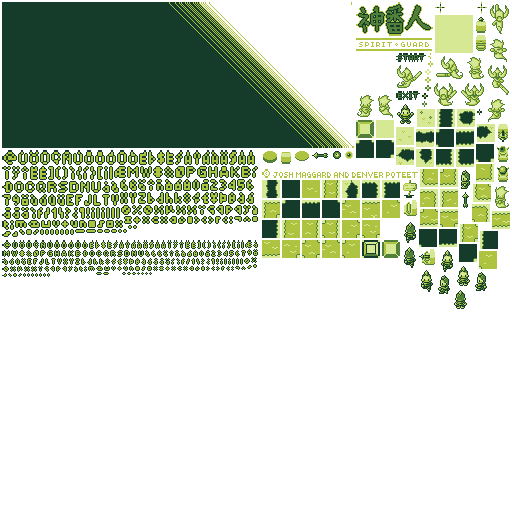
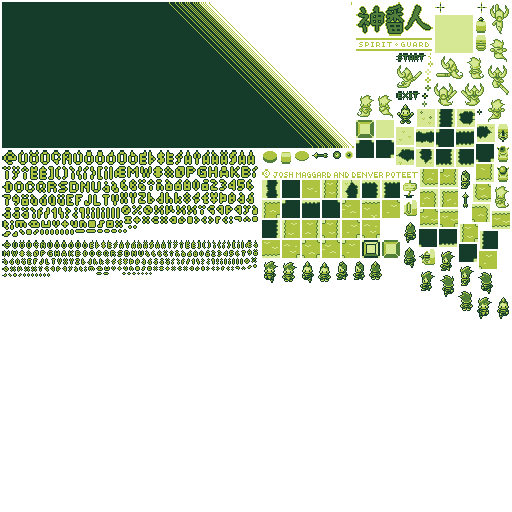
put in basic enemy class

Changed region(s): [[0.8125, 0.5, 1.0, 0.625], [0.5, 0.5, 0.75, 0.5625]]

diff --git a/Assets/Resources/Scripts/GameObjects/Player.cs b/Assets/Resources/Scripts/GameObjects/Player.cs
@@ -74,7 +74,7 @@ public class Player : FutileFourDirectionBaseObject
         player.addAnimation(new FAnimation(PlayerState.SWORD_TWO.ToString() + Direction.DOWN.ToString(), new int[] { 20, 21 }, attackSpeed, false));
 
 
-        player.play(State.ToString());
+        PlayAnim(true);
         this.AddChild(player);
     }
 
@@ -107,10 +107,10 @@ public class Player : FutileFourDirectionBaseObject
                     float newY = this.y;
                     switch (_direction)
                     {
-                        case Direction.UP: newY += maxJumpDist; while (newY > this.y && (!world.isPassable(this.x + hitBox.x, newY + hitBox.y + hitBox.height / 2f) || !world.isPassable(this.x + hitBox.x, newY + hitBox.y - hitBox.height / 2f) || world.CheckObjectCollision(this.x + hitBox.x, newY + hitBox.y + hitBox.height / 2f) != null || world.CheckObjectCollision(this.x + hitBox.x, newY + hitBox.y - hitBox.height / 2f) != null)) { newY -= 1f; } break;
-                        case Direction.RIGHT: newX += maxJumpDist; while (newX > this.x && (!world.isPassable(newX + hitBox.x + hitBox.width / 2f, this.y + hitBox.y) || !world.isPassable(newX + hitBox.x - hitBox.width / 2f, this.y + hitBox.y) || world.CheckObjectCollision(newX + hitBox.x + hitBox.width / 2f, this.y + hitBox.y) != null || world.CheckObjectCollision(newX + hitBox.x - hitBox.width / 2f, this.y + hitBox.y) != null)) { newX -= 1f; } break;
-                        case Direction.DOWN: newY -= maxJumpDist; while (newY < this.y && (!world.isPassable(this.x + hitBox.x, newY + hitBox.y + hitBox.height / 2f) || !world.isPassable(this.x + hitBox.x, newY + hitBox.y - hitBox.height / 2f) || world.CheckObjectCollision(this.x + hitBox.x, newY + hitBox.y - hitBox.height / 2f) != null || world.CheckObjectCollision(this.x + hitBox.x, newY + hitBox.y + hitBox.height / 2f) != null)) { newY += 1f; } break;
-                        case Direction.LEFT: newX -= maxJumpDist; while (newX < this.x && (!world.isPassable(newX + hitBox.x + hitBox.width / 2f, this.y + hitBox.y) || !world.isPassable(newX + hitBox.x - hitBox.width / 2f, this.y + hitBox.y) || world.CheckObjectCollision(newX + hitBox.x - hitBox.width / 2f, this.y + hitBox.y) != null || world.CheckObjectCollision(newX + hitBox.x + hitBox.width / 2f, this.y + hitBox.y) != null)) { newX += 1f; } break;
+                        case Direction.UP: newY += maxJumpDist; while (newY > this.y && (!world.isPassable(this.x + hitBox.x, newY + hitBox.y + hitBox.height / 2f) || !world.isPassable(this.x + hitBox.x, newY + hitBox.y - hitBox.height / 2f) || world.CheckObjectCollision(this, this.x + hitBox.x, newY + hitBox.y + hitBox.height / 2f) != null || world.CheckObjectCollision(this, this.x + hitBox.x, newY + hitBox.y - hitBox.height / 2f) != null)) { newY -= 1f; } break;
+                        case Direction.RIGHT: newX += maxJumpDist; while (newX > this.x && (!world.isPassable(newX + hitBox.x + hitBox.width / 2f, this.y + hitBox.y) || !world.isPassable(newX + hitBox.x - hitBox.width / 2f, this.y + hitBox.y) || world.CheckObjectCollision(this, newX + hitBox.x + hitBox.width / 2f, this.y + hitBox.y) != null || world.CheckObjectCollision(this, newX + hitBox.x - hitBox.width / 2f, this.y + hitBox.y) != null)) { newX -= 1f; } break;
+                        case Direction.DOWN: newY -= maxJumpDist; while (newY < this.y && (!world.isPassable(this.x + hitBox.x, newY + hitBox.y + hitBox.height / 2f) || !world.isPassable(this.x + hitBox.x, newY + hitBox.y - hitBox.height / 2f) || world.CheckObjectCollision(this, this.x + hitBox.x, newY + hitBox.y - hitBox.height / 2f) != null || world.CheckObjectCollision(this, this.x + hitBox.x, newY + hitBox.y + hitBox.height / 2f) != null)) { newY += 1f; } break;
+                        case Direction.LEFT: newX -= maxJumpDist; while (newX < this.x && (!world.isPassable(newX + hitBox.x + hitBox.width / 2f, this.y + hitBox.y) || !world.isPassable(newX + hitBox.x - hitBox.width / 2f, this.y + hitBox.y) || world.CheckObjectCollision(this, newX + hitBox.x - hitBox.width / 2f, this.y + hitBox.y) != null || world.CheckObjectCollision(this, newX + hitBox.x + hitBox.width / 2f, this.y + hitBox.y) != null)) { newX += 1f; } break;
                     }
                     xVel = 0;
                     yVel = 0;
@@ -157,10 +157,10 @@ public class Player : FutileFourDirectionBaseObject
                     float newY = this.y;
                     switch (_direction)
                     {
-                        case Direction.UP: newY += attackDist; while (newY > this.y && (!world.isPassable(this.x + hitBox.x, newY + hitBox.y + hitBox.height / 2f) || !world.isPassable(this.x + hitBox.x, newY + hitBox.y - hitBox.height / 2f) || world.CheckObjectCollision(this.x + hitBox.x, newY + hitBox.y + hitBox.height / 2f) != null || world.CheckObjectCollision(this.x + hitBox.x, newY + hitBox.y - hitBox.height / 2f) != null)) { newY -= 1f; } break;
-                        case Direction.RIGHT: newX += attackDist; while (newX > this.x && (!world.isPassable(newX + hitBox.x + hitBox.width / 2f, this.y + hitBox.y) || !world.isPassable(newX + hitBox.x - hitBox.width / 2f, this.y + hitBox.y) || world.CheckObjectCollision(newX + hitBox.x + hitBox.width / 2f, this.y + hitBox.y) != null || world.CheckObjectCollision(newX + hitBox.x - hitBox.width / 2f, this.y + hitBox.y) != null)) { newX -= 1f; } break;
-                        case Direction.DOWN: newY -= attackDist; while (newY < this.y && (!world.isPassable(this.x + hitBox.x, newY + hitBox.y + hitBox.height / 2f) || !world.isPassable(this.x + hitBox.x, newY + hitBox.y - hitBox.height / 2f) || world.CheckObjectCollision(this.x + hitBox.x, newY + hitBox.y - hitBox.height / 2f) != null || world.CheckObjectCollision(this.x + hitBox.x, newY + hitBox.y + hitBox.height / 2f) != null)) { newY += 1f; } break;
-                        case Direction.LEFT: newX -= attackDist; while (newX < this.x && (!world.isPassable(newX + hitBox.x + hitBox.width / 2f, this.y + hitBox.y) || !world.isPassable(newX + hitBox.x - hitBox.width / 2f, this.y + hitBox.y) || world.CheckObjectCollision(newX + hitBox.x - hitBox.width / 2f, this.y + hitBox.y) != null || world.CheckObjectCollision(newX + hitBox.x + hitBox.width / 2f, this.y + hitBox.y) != null)) { newX += 1f; } break;
+                        case Direction.UP: newY += attackDist; while (newY > this.y && (!world.isPassable(this.x + hitBox.x, newY + hitBox.y + hitBox.height / 2f) || !world.isPassable(this.x + hitBox.x, newY + hitBox.y - hitBox.height / 2f) || world.CheckObjectCollision(this, this.x + hitBox.x, newY + hitBox.y + hitBox.height / 2f) != null || world.CheckObjectCollision(this, this.x + hitBox.x, newY + hitBox.y - hitBox.height / 2f) != null)) { newY -= 1f; } break;
+                        case Direction.RIGHT: newX += attackDist; while (newX > this.x && (!world.isPassable(newX + hitBox.x + hitBox.width / 2f, this.y + hitBox.y) || !world.isPassable(newX + hitBox.x - hitBox.width / 2f, this.y + hitBox.y) || world.CheckObjectCollision(this, newX + hitBox.x + hitBox.width / 2f, this.y + hitBox.y) != null || world.CheckObjectCollision(this, newX + hitBox.x - hitBox.width / 2f, this.y + hitBox.y) != null)) { newX -= 1f; } break;
+                        case Direction.DOWN: newY -= attackDist; while (newY < this.y && (!world.isPassable(this.x + hitBox.x, newY + hitBox.y + hitBox.height / 2f) || !world.isPassable(this.x + hitBox.x, newY + hitBox.y - hitBox.height / 2f) || world.CheckObjectCollision(this, this.x + hitBox.x, newY + hitBox.y - hitBox.height / 2f) != null || world.CheckObjectCollision(this, this.x + hitBox.x, newY + hitBox.y + hitBox.height / 2f) != null)) { newY += 1f; } break;
+                        case Direction.LEFT: newX -= attackDist; while (newX < this.x && (!world.isPassable(newX + hitBox.x + hitBox.width / 2f, this.y + hitBox.y) || !world.isPassable(newX + hitBox.x - hitBox.width / 2f, this.y + hitBox.y) || world.CheckObjectCollision(this, newX + hitBox.x - hitBox.width / 2f, this.y + hitBox.y) != null || world.CheckObjectCollision(this, newX + hitBox.x + hitBox.width / 2f, this.y + hitBox.y) != null)) { newX += 1f; } break;
                     }
                     xVel = 0;
                     yVel = 0;
@@ -248,10 +248,10 @@ public class Player : FutileFourDirectionBaseObject
                         PlayAnim(true);
                         switch (_direction)
                         {
-                            case Direction.UP: newY += attack2Dist; while (newY > this.y && (!world.isPassable(this.x + hitBox.x, newY + hitBox.y + hitBox.height / 2f) || !world.isPassable(this.x + hitBox.x, newY + hitBox.y - hitBox.height / 2f) || world.CheckObjectCollision(this.x + hitBox.x, newY + hitBox.y + hitBox.height / 2f) != null || world.CheckObjectCollision(this.x + hitBox.x, newY + hitBox.y - hitBox.height / 2f) != null)) { newY -= 1f; } break;
-                            case Direction.RIGHT: newX += attack2Dist; while (newX > this.x && (!world.isPassable(newX + hitBox.x + hitBox.width / 2f, this.y + hitBox.y) || !world.isPassable(newX + hitBox.x - hitBox.width / 2f, this.y + hitBox.y) || world.CheckObjectCollision(newX + hitBox.x + hitBox.width / 2f, this.y + hitBox.y) != null || world.CheckObjectCollision(newX + hitBox.x - hitBox.width / 2f, this.y + hitBox.y) != null)) { newX -= 1f; } break;
-                            case Direction.DOWN: newY -= attack2Dist; while (newY < this.y && (!world.isPassable(this.x + hitBox.x, newY + hitBox.y + hitBox.height / 2f) || !world.isPassable(this.x + hitBox.x, newY + hitBox.y - hitBox.height / 2f) || world.CheckObjectCollision(this.x + hitBox.x, newY + hitBox.y - hitBox.height / 2f) != null || world.CheckObjectCollision(this.x + hitBox.x, newY + hitBox.y + hitBox.height / 2f) != null)) { newY += 1f; } break;
-                            case Direction.LEFT: newX -= attack2Dist; while (newX < this.x && (!world.isPassable(newX + hitBox.x + hitBox.width / 2f, this.y + hitBox.y) || !world.isPassable(newX + hitBox.x - hitBox.width / 2f, this.y + hitBox.y) || world.CheckObjectCollision(newX + hitBox.x - hitBox.width / 2f, this.y + hitBox.y) != null || world.CheckObjectCollision(newX + hitBox.x + hitBox.width / 2f, this.y + hitBox.y) != null)) { newX += 1f; } break;
+                            case Direction.UP: newY += attack2Dist; while (newY > this.y && (!world.isPassable(this.x + hitBox.x, newY + hitBox.y + hitBox.height / 2f) || !world.isPassable(this.x + hitBox.x, newY + hitBox.y - hitBox.height / 2f) || world.CheckObjectCollision(this, this.x + hitBox.x, newY + hitBox.y + hitBox.height / 2f) != null || world.CheckObjectCollision(this, this.x + hitBox.x, newY + hitBox.y - hitBox.height / 2f) != null)) { newY -= 1f; } break;
+                            case Direction.RIGHT: newX += attack2Dist; while (newX > this.x && (!world.isPassable(newX + hitBox.x + hitBox.width / 2f, this.y + hitBox.y) || !world.isPassable(newX + hitBox.x - hitBox.width / 2f, this.y + hitBox.y) || world.CheckObjectCollision(this, newX + hitBox.x + hitBox.width / 2f, this.y + hitBox.y) != null || world.CheckObjectCollision(this, newX + hitBox.x - hitBox.width / 2f, this.y + hitBox.y) != null)) { newX -= 1f; } break;
+                            case Direction.DOWN: newY -= attack2Dist; while (newY < this.y && (!world.isPassable(this.x + hitBox.x, newY + hitBox.y + hitBox.height / 2f) || !world.isPassable(this.x + hitBox.x, newY + hitBox.y - hitBox.height / 2f) || world.CheckObjectCollision(this, this.x + hitBox.x, newY + hitBox.y - hitBox.height / 2f) != null || world.CheckObjectCollision(this, this.x + hitBox.x, newY + hitBox.y + hitBox.height / 2f) != null)) { newY += 1f; } break;
+                            case Direction.LEFT: newX -= attack2Dist; while (newX < this.x && (!world.isPassable(newX + hitBox.x + hitBox.width / 2f, this.y + hitBox.y) || !world.isPassable(newX + hitBox.x - hitBox.width / 2f, this.y + hitBox.y) || world.CheckObjectCollision(this, newX + hitBox.x - hitBox.width / 2f, this.y + hitBox.y) != null || world.CheckObjectCollision(this, newX + hitBox.x + hitBox.width / 2f, this.y + hitBox.y) != null)) { newX += 1f; } break;
                         }
                         xVel = 0;
                         yVel = 0;

diff --git a/Assets/Resources/Scripts/GameObjects/Enemy.cs b/Assets/Resources/Scripts/GameObjects/Enemy.cs
@@ -1,0 +1,133 @@
+using System;
+using System.Collections.Generic;
+using System.Linq;
+using System.Text;
+
+public class Enemy : FutileFourDirectionBaseObject
+{
+    private FAnimatedSprite sprite;
+    private float moveSpeed = .5f;
+    private EnemyState _state = EnemyState.IDLE;
+    public EnemyState State
+    {
+        get
+        {
+            return _state;
+        }
+        set
+        {
+            if (_state != value)
+            {
+                _state = value;
+                stateCount = 0;
+            }
+        }
+    }
+    public enum EnemyState
+    {
+        IDLE,
+        MOVING
+    }
+    public Enemy(World world)
+        : base(new RXRect(0, -6, 10, 8), world)
+    {
+        maxXVel = .5f;
+        maxYVel = .5f;
+        minYVel = -.5f;
+        handleStateCount = true;
+        bounceiness = 0f;
+        clearAcc = false;
+
+        sprite = new FAnimatedSprite("villagerA");
+        sprite.addAnimation(new FAnimation(EnemyState.MOVING.ToString() + Direction.DOWN, new int[] { 1, 2, 3, 4 }, 150, true));
+        sprite.addAnimation(new FAnimation(EnemyState.MOVING.ToString() + Direction.UP, new int[] { 5, 6, 7, 8 }, 150, true));
+        sprite.addAnimation(new FAnimation(EnemyState.MOVING.ToString() + Direction.LEFT, new int[] { 9, 10, 11, 12 }, 150, true));
+        sprite.addAnimation(new FAnimation(EnemyState.MOVING.ToString() + Direction.RIGHT, new int[] { 9, 10, 11, 12 }, 150, true));
+
+        sprite.addAnimation(new FAnimation(EnemyState.IDLE.ToString() + Direction.DOWN, new int[] { 1 }, 150, true));
+        sprite.addAnimation(new FAnimation(EnemyState.IDLE.ToString() + Direction.UP, new int[] { 5 }, 150, true));
+        sprite.addAnimation(new FAnimation(EnemyState.IDLE.ToString() + Direction.LEFT, new int[] { 9 }, 150, true));
+        sprite.addAnimation(new FAnimation(EnemyState.IDLE.ToString() + Direction.RIGHT, new int[] { 9 }, 150, true));
+
+        PlayAnim();
+        this.AddChild(sprite);
+    }
+
+    float minState = .8f;
+    public override void OnFixedUpdate()
+    {
+        if (stateCount > minState)
+        {
+            if (RXRandom.Float() < .3f)
+            {
+                switch (State)
+                {
+                    case EnemyState.IDLE:
+                        if (RXRandom.Float() < .5f)
+                        {
+                            //left or right
+                            if (RXRandom.Float() < .5f)
+                                xAcc = moveSpeed;
+                            else
+                                xAcc = -moveSpeed;
+                        }
+                        else
+                        {
+                            //up or down
+                            if (RXRandom.Float() < .5f)
+                                yAcc = moveSpeed;
+                            else
+                                yAcc = -moveSpeed;
+                        }
+                        State = EnemyState.MOVING;
+                        break;
+                    case EnemyState.MOVING:
+                        if (RXRandom.Float() < .3f)
+                        {
+                            //stop
+                            State = EnemyState.IDLE;
+                            PlayAnim(true);
+                            xAcc = 0;
+                            yAcc = 0;
+
+                        }
+                        else
+                        {
+                            //Just turn
+                            if (RXRandom.Float() < .5f)
+                            {
+                                if (RXRandom.Float() < .5f)
+                                    xAcc = moveSpeed;
+                                else
+                                    xAcc = -moveSpeed;
+                                yAcc = 0;
+                            }
+                            else
+                            {
+                                if (RXRandom.Float() < .5f)
+                                    yAcc = moveSpeed;
+                                else
+                                    yAcc = -moveSpeed;
+                                xAcc = 0;
+                            }
+                            stateCount = 0;
+                        }
+                        break;
+                }
+
+            }
+        }
+        base.OnFixedUpdate();
+        if (xAcc == 0)
+            xVel *= .8f;
+        if (yAcc == 0)
+            yVel *= .8f;
+        PlayAnim();
+    }
+
+    public void PlayAnim(bool forced = false)
+    {
+        sprite.play(State.ToString() + _direction.ToString(), forced);
+    }
+}
+

diff --git a/Assets/Resources/Scripts/BaseClasses/FutilePlatformerBaseObject.cs b/Assets/Resources/Scripts/BaseClasses/FutilePlatformerBaseObject.cs
@@ -16,11 +16,12 @@ public class FutilePlatformerBaseObject : FContainer
     protected float minYVel = -2.5f;
     float tileSize;
     protected World world;
+    protected bool clearAcc = true;
 
     protected bool handleStateCount = false;
     protected float stateCount = 0;
 
-    bool applyGravity = true;
+    bool applyGravity = false;
     protected bool grounded = false;
     protected float groundedMargin = 16f;       //Amount off the ground that the player is considered to be grounded (Gives the player some leeway)
     protected float bounceiness = .8f;
@@ -135,8 +136,11 @@ public class FutilePlatformerBaseObject : FContainer
             this.yVel += world.gravity;
         this.xVel += xAcc;
         this.yVel += yAcc;
+        if (clearAcc)
+        {
         xAcc = 0;
         yAcc = 0;
+        }
 
         this.yVel = Mathf.Clamp(this.yVel, minYVel, maxYVel);
         this.xVel = Mathf.Clamp(this.xVel, -maxXVel, maxXVel);
@@ -177,7 +181,7 @@ public class FutilePlatformerBaseObject : FContainer
                     xVel *= -bounceiness;
                     return false;
                 }
-                RXRect objectCollision = world.CheckObjectCollision(this.x + hitBox.x + hitBox.width / 2, y + hitBox.y + yCheck);
+                RXRect objectCollision = world.CheckObjectCollision(this, this.x + hitBox.x + hitBox.width / 2, y + hitBox.y + yCheck);
                 if (objectCollision != null)
                 {
                     xVel *= -bounceiness;
@@ -206,7 +210,7 @@ public class FutilePlatformerBaseObject : FContainer
                     return false;
                 }
 
-                RXRect objectCollision = world.CheckObjectCollision(this.x + hitBox.x - hitBox.width/2, y + hitBox.y + yCheck);
+                RXRect objectCollision = world.CheckObjectCollision(this, this.x + hitBox.x - hitBox.width/2, y + hitBox.y + yCheck);
                 if (objectCollision != null)
                 {
                     xVel *= -bounceiness;
@@ -235,7 +239,7 @@ public class FutilePlatformerBaseObject : FContainer
                     this.y = Mathf.CeilToInt((this.y + hitBox.y - hitBox.height / 2f) / tileSize) * tileSize - hitBox.y + hitBox.height / 2;
                     return false;
                 }
-                RXRect objectCollision = world.CheckObjectCollision(this.x + hitBox.x + xCheck, y + hitBox.y - hitBox.height / 2);
+                RXRect objectCollision = world.CheckObjectCollision(this, this.x + hitBox.x + xCheck, y + hitBox.y - hitBox.height / 2);
                 if (objectCollision != null)
                 {
                     yVel *= -bounceiness;
@@ -267,7 +271,7 @@ public class FutilePlatformerBaseObject : FContainer
 
                     return false;
                 }
-                RXRect objectCollision = world.CheckObjectCollision(this.x + hitBox.x + xCheck, y + hitBox.y + hitBox.height / 2);
+                RXRect objectCollision = world.CheckObjectCollision(this, this.x + hitBox.x + xCheck, y + hitBox.y + hitBox.height / 2);
                 if (objectCollision != null)
                 {
                     yVel *= -bounceiness;

diff --git a/Assets/Resources/Scripts/GameObjects/World.cs b/Assets/Resources/Scripts/GameObjects/World.cs
@@ -103,7 +103,6 @@ public class World : FContainer
         this.map.LoadTMX("Maps/" + mapName);
 
 
-
         FLabel mapNameLabel = new FLabel(C.largeFontName, map.mapName);
         C.getCameraInstance().AddChild(mapNameLabel);
         mapNameLabel.SetPosition(new Vector2(Futile.screen.width, Futile.screen.halfHeight * .8f));
@@ -122,6 +121,7 @@ public class World : FContainer
             player = new Player(this);
             C.getCameraInstance().follow(player);
         }
+        collisionObjects.Add(player);
         playerLayer.AddChild(player);
         C.getCameraInstance().setWorldBounds(new Rect(0, -collisionTilemap.height, collisionTilemap.width, collisionTilemap.height));
         collisionTilemap.clipNode = C.getCameraInstance();
@@ -167,10 +167,12 @@ public class World : FContainer
     }
 
     RXRect worldPos = new RXRect();
-    public RXRect CheckObjectCollision(float x, float y)
+    public RXRect CheckObjectCollision(FutilePlatformerBaseObject self, float x, float y)
     {
         foreach (FutilePlatformerBaseObject o in collisionObjects)
         {
+            if (o == self)
+                continue;
             worldPos.x = o.x + o.hitBox.x - o.hitBox.width / 2;
             worldPos.y = o.y + o.hitBox.y - o.hitBox.height / 2;
             worldPos.width = o.hitBox.width;

diff --git a/Assets/Resources/Scripts/Helper/MapLoader.cs b/Assets/Resources/Scripts/Helper/MapLoader.cs
@@ -20,6 +20,10 @@ public class MapLoader
                 case "sign":
                     world.addObject(parseSign(node, world));
                     break;
+                case "enemy":
+                    RXDebug.Log("HI");
+                    world.addObject(parseEnemy(node, world));
+                    break;
             }
         }
     }
@@ -89,6 +93,15 @@ public class MapLoader
         result.SetPosition((float.Parse(node.attributes["x"]) + 8f), -(float.Parse(node.attributes["y"])-  8f));
 
         return result;
-    } 
+    }
+
+     private static Enemy parseEnemy(XMLNode node, World world)
+     {
+
+         Enemy result = new Enemy(world);
+         result.SetPosition((float.Parse(node.attributes["x"]) + 8f), -(float.Parse(node.attributes["y"]) - 8f));
+
+         return result;
+     } 
 
 }

diff --git a/Assets/Resources/Scripts/Helper/C.cs b/Assets/Resources/Scripts/Helper/C.cs
@@ -6,7 +6,7 @@ using UnityEngine;
 
 public class C
 {
-    public const string versionNumber = "v0.1";
+    public const string versionNumber = "v0.2 ";
 
     private static FCamObject camera;
     public static FCamObject getCameraInstance()
